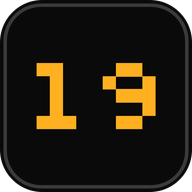
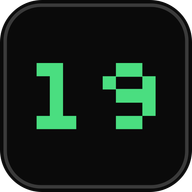
Switch the accent color from amber to green, strip the header badge box
- --color-led (and its -bg pair) is now green instead of amber, in both
  themes — this is the single accent token used everywhere: the active
  tab, "hit 19" highlights, and every primary button (Unlock, Mark won,
  the home-screen-prompt tabs), so all of them follow automatically.
  Updated the matching dark contrast text on those green buttons to
  match (was tuned for amber).
- Removed the black bezel box and drop-shadow glow around "19 LEAGUE"
  in the header — now just plain green pixel-font text.
- Regenerated the app icon in the same green (was still amber).

Changed region(s): [[0.5312, 0.3125, 0.8125, 0.6875], [0.1875, 0.3125, 0.4062, 0.6875]]

diff --git a/src/app/layout.tsx b/src/app/layout.tsx
@@ -48,14 +48,12 @@ export default function RootLayout({ children }: LayoutProps<"/">) {
       <body className="min-h-full flex flex-col bg-field text-chalk">
         <header className="sticky top-0 z-10 flex items-center justify-between border-b border-line bg-field/95 backdrop-blur px-4 py-3">
           <ThemeToggle />
-          <div className="flex items-baseline gap-1.5 rounded-sm border-2 border-[#3a3a3a] bg-black px-3 py-1 shadow-[inset_0_0_8px_rgba(0,0,0,0.8)]">
-            <span
-              className={`${silkscreen.className} text-xl leading-none text-led drop-shadow-[0_0_5px_var(--color-led)] drop-shadow-[0_0_10px_var(--color-led)]`}
-            >
+          <div className="flex items-baseline gap-1.5">
+            <span className={`${silkscreen.className} text-xl leading-none text-led`}>
               19
             </span>
             <span
-              className={`${silkscreen.className} text-xl leading-none tracking-[0.15em] text-led drop-shadow-[0_0_5px_var(--color-led)] drop-shadow-[0_0_10px_var(--color-led)]`}
+              className={`${silkscreen.className} text-xl leading-none tracking-[0.15em] text-led`}
             >
               LEAGUE
             </span>

diff --git a/src/app/admin/page.tsx b/src/app/admin/page.tsx
@@ -359,7 +359,7 @@ function Payments() {
                   disabled={busyId === p.id}
                   className={`rounded-full px-3 py-1.5 text-xs font-bold transition-transform active:scale-95 disabled:opacity-50 disabled:active:scale-100 ${
                     p.won
-                      ? "bg-led text-[#1a1200]"
+                      ? "bg-led text-[#08150e]"
                       : "border border-line text-chalk-dim"
                   }`}
                 >
@@ -386,7 +386,7 @@ export default function AdminPage() {
             onClick={() => setSection(s)}
             className={`rounded-full px-4 py-1.5 text-xs font-semibold uppercase tracking-wide transition-all active:scale-95 ${
               section === s
-                ? "bg-led text-[#1a1200]"
+                ? "bg-led text-[#08150e]"
                 : "border border-line text-chalk-dim"
             }`}
           >

diff --git a/src/app/globals.css b/src/app/globals.css
@@ -15,8 +15,8 @@
   --color-chalk: #f0f0ee;
   --color-chalk-dim: #a3a3a1;
   --color-chalk-faint: #727270;
-  --color-led: #ffb020;
-  --color-led-bg: #332711;
+  --color-led: #4ade80;
+  --color-led-bg: #16261b;
   --color-win: #4ecb8c;
   --color-win-bg: #17281f;
   --color-caution: #e08a3c;
@@ -37,8 +37,8 @@
   --color-chalk: #19181a;
   --color-chalk-dim: #55534f;
   --color-chalk-faint: #85827c;
-  --color-led: #c97800;
-  --color-led-bg: #fff3dc;
+  --color-led: #15803d;
+  --color-led-bg: #e6f7ea;
   --color-win: #1f9d5c;
   --color-win-bg: #e3f7ec;
   --color-caution: #b4610f;

diff --git a/src/app/admin/login/page.tsx b/src/app/admin/login/page.tsx
@@ -53,7 +53,7 @@ export default function AdminLoginPage() {
         <button
           type="submit"
           disabled={loading}
-          className="rounded-full bg-led px-4 py-2 text-sm font-bold text-[#1a1200] transition-transform active:scale-95 disabled:opacity-40 disabled:active:scale-100"
+          className="rounded-full bg-led px-4 py-2 text-sm font-bold text-[#08150e] transition-transform active:scale-95 disabled:opacity-40 disabled:active:scale-100"
         >
           {loading ? "Checking..." : "Unlock"}
         </button>

diff --git a/src/components/AddToHomeScreen.tsx b/src/components/AddToHomeScreen.tsx
@@ -93,7 +93,7 @@ export default function AddToHomeScreen() {
                   onClick={() => setPlatform(p)}
                   className={`flex-1 rounded-full px-2 py-1.5 text-[11px] font-semibold transition-colors ${
                     platform === p
-                      ? "bg-led text-[#1a1200]"
+                      ? "bg-led text-[#08150e]"
                       : "bg-panel-3 text-chalk-faint"
                   }`}
                 >
